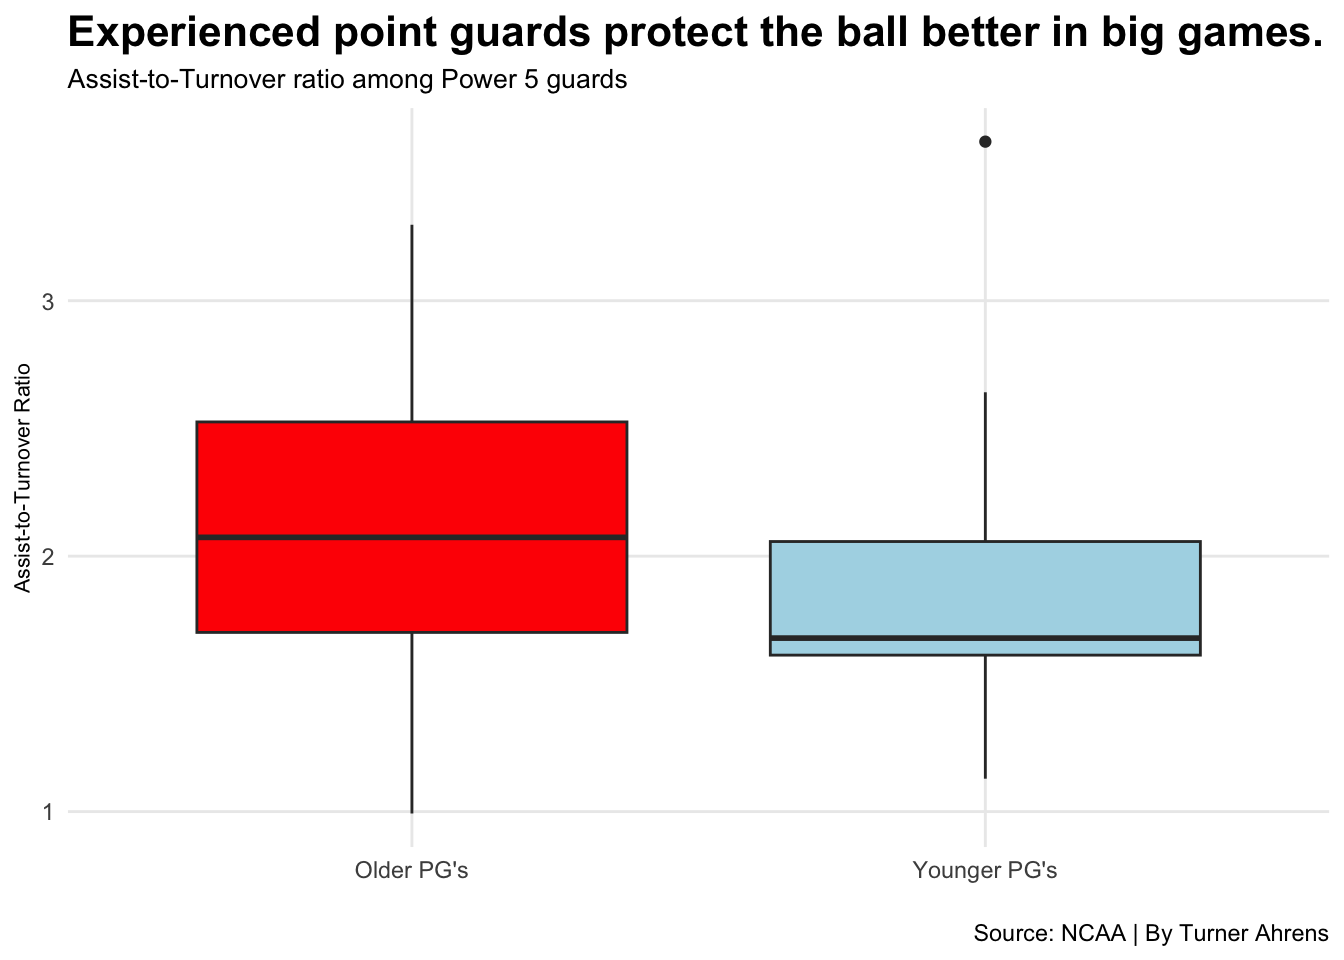
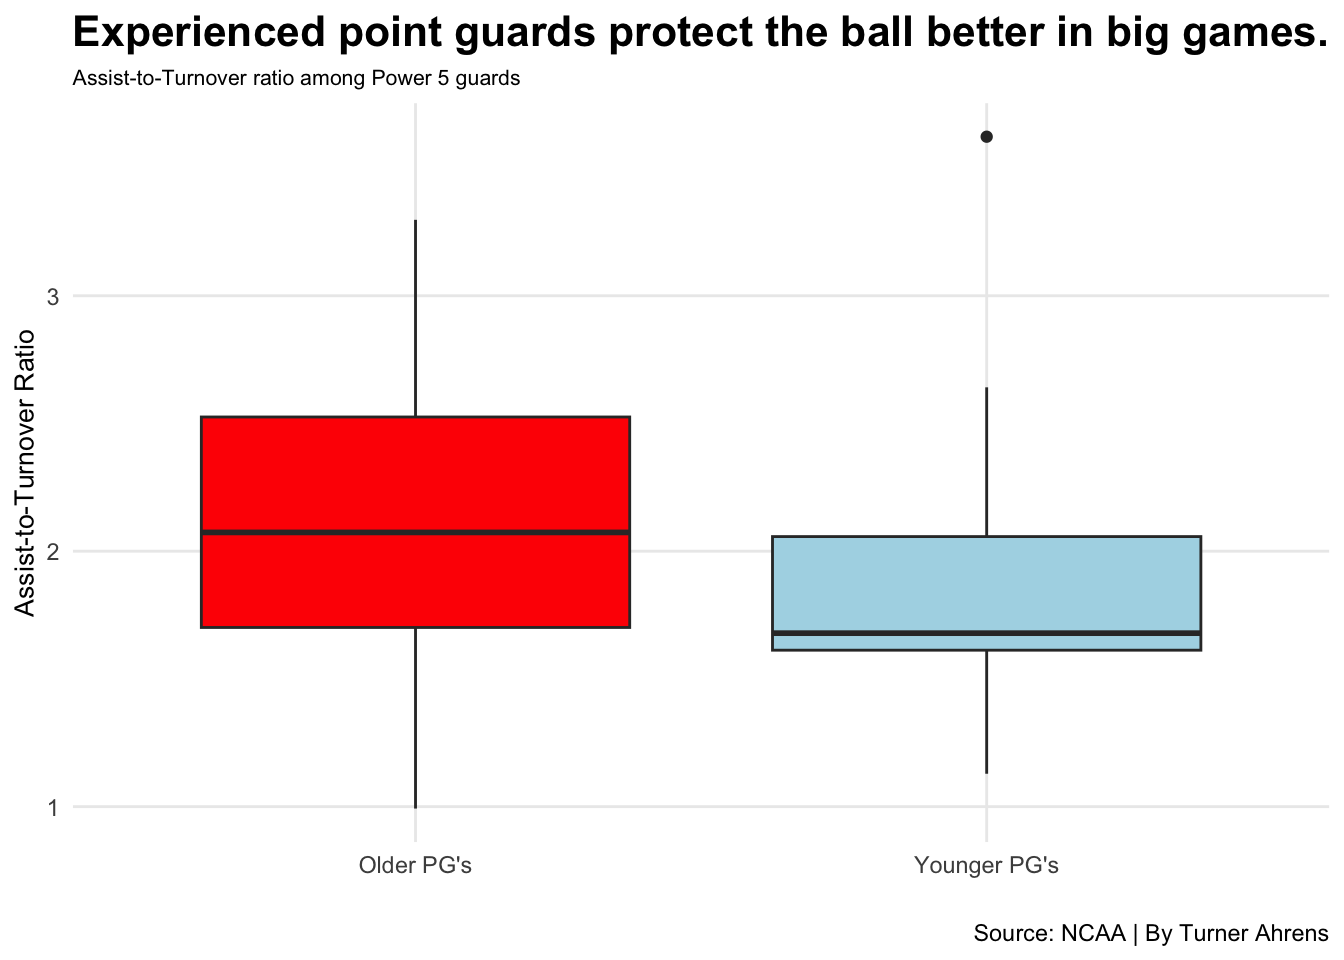
yes

diff --git a/posts/point-guards-and-march-madness/index.html b/posts/point-guards-and-march-madness/index.html
@@ -195,7 +195,7 @@ pre > code.sourceCode > span > a:first-child::before { text-decoration: underlin
 
 
 
-<p>The point guard position in basketball is like the quarterback of a football team. The point guard controls the ball, controls the tempo, and is expected to control the game through all chaos. Think… you’re a coach heading in to game 40 of the season, first round of March Madness. You have a Freshmen guard who has a lot of potential but may not be ready for the bright lights, and a veteran guard who has been in this position for the last three years. Who do you play? Who is going to control the offesne when the lights are the brightest? Coaches are very specific about who they play at their point guard, and many coaches have a preference of having a point guard with experience.</p>
+<p>The point guard position in basketball is like the quarterback of a football team. The point guard controls the ball, controls the tempo, and is expected to control the game through all chaos. Think… you’re a coach heading in to game 40 of the season, first round of March Madness. You have a Freshmen guard who has a lot of potential but may not be ready for the bright lights, and a veteran guard who has been in this position for the last three years. Who do you play? Who is going to control the offense when the lights are the brightest? Coaches are very specific about who they play at their point guard, and many coaches prefer point guards with experience.</p>
 <p>By looking at our Power 5 guard statistics over the last seven years, these charts show how age and experience have an affect on the point guard position. The goal is to see whether an experienced point guard is more fit to run point over an underclassmen in conference tournament and March Madness games.</p>
 <div class="cell">
 <details class="code-fold">
@@ -391,7 +391,7 @@ pre > code.sourceCode > span > a:first-child::before { text-decoration: underlin
 </div>
 </div>
 </div>
-<p>This scatterplot compares minutes played to production for Power 5 guards. The chart only shows players above 850 minutes and a production rate over 0.70, and the group is almsot entirely juniors and seniors . That top percent shows us that older guards are able to perform in big games, and can sustain their play throughout the long season better than younger guards.</p>
+<p>This scatterplot compares minutes played to production for Power 5 guards. The chart only shows players above 850 minutes and a production rate over 0.70, and the group is almost entirely juniors and seniors . That top percent shows us that older guards are able to perform in big games, and can sustain their play throughout the long season better than younger guards.</p>
 <div class="cell">
 <details class="code-fold">
 <summary>Code</summary>
@@ -423,8 +423,8 @@ pre > code.sourceCode > span > a:first-child::before { text-decoration: underlin
 <span id="cb3-26"><a href="#cb3-26" aria-hidden="true" tabindex="-1"></a>  <span class="fu">theme_minimal</span>() <span class="sc">+</span></span>
 <span id="cb3-27"><a href="#cb3-27" aria-hidden="true" tabindex="-1"></a>  <span class="fu">theme</span>(</span>
 <span id="cb3-28"><a href="#cb3-28" aria-hidden="true" tabindex="-1"></a>    <span class="at">plot.title =</span> <span class="fu">element_text</span>(<span class="at">size =</span> <span class="dv">16</span>, <span class="at">face =</span> <span class="st">"bold"</span>),</span>
-<span id="cb3-29"><a href="#cb3-29" aria-hidden="true" tabindex="-1"></a>    <span class="at">axis.title =</span> <span class="fu">element_text</span>(<span class="at">size =</span> <span class="dv">8</span>), </span>
-<span id="cb3-30"><a href="#cb3-30" aria-hidden="true" tabindex="-1"></a>    <span class="at">plot.subtitle =</span> <span class="fu">element_text</span>(<span class="at">size =</span> <span class="dv">10</span>), </span>
+<span id="cb3-29"><a href="#cb3-29" aria-hidden="true" tabindex="-1"></a>    <span class="at">axis.title =</span> <span class="fu">element_text</span>(<span class="at">size =</span> <span class="dv">10</span>), </span>
+<span id="cb3-30"><a href="#cb3-30" aria-hidden="true" tabindex="-1"></a>    <span class="at">plot.subtitle =</span> <span class="fu">element_text</span>(<span class="at">size =</span> <span class="dv">8</span>), </span>
 <span id="cb3-31"><a href="#cb3-31" aria-hidden="true" tabindex="-1"></a>    <span class="at">panel.grid.minor =</span> <span class="fu">element_blank</span>()</span>
 <span id="cb3-32"><a href="#cb3-32" aria-hidden="true" tabindex="-1"></a>  )</span></code></pre></div><button title="Copy to Clipboard" class="code-copy-button"><i class="bi"></i></button></div>
 </details>

diff --git a/index.html b/index.html
@@ -209,7 +209,7 @@ window.Quarto = {
 
 <div class="quarto-listing quarto-listing-container-default" id="listing-listing">
 <div class="list quarto-listing-default">
[2 lines of base64/hex data omitted]
 <div class="thumbnail"><a href="./posts/point-guards-and-march-madness/index.html" class="no-external">
 
 <img loading="lazy" src="./posts/point-guards-and-march-madness/image1.jpg" class="thumbnail-image">
